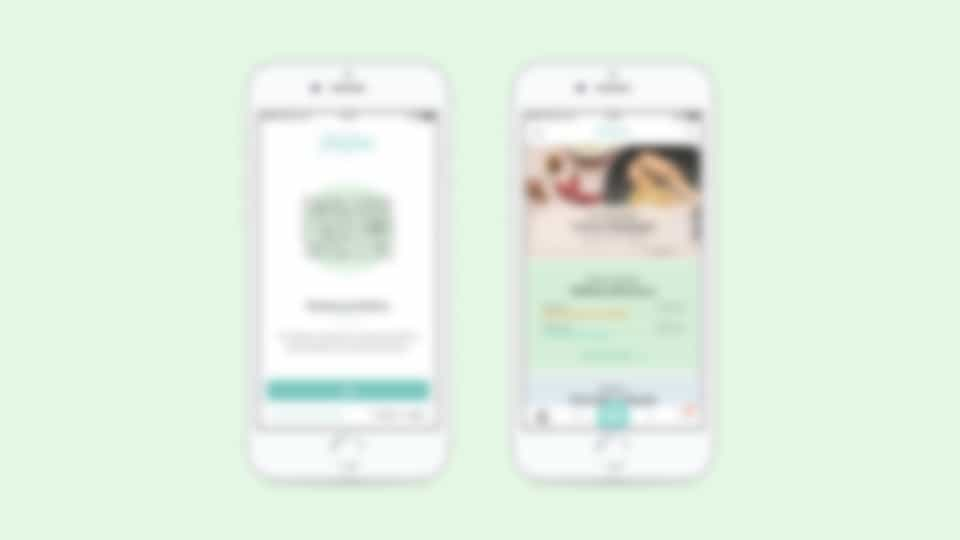
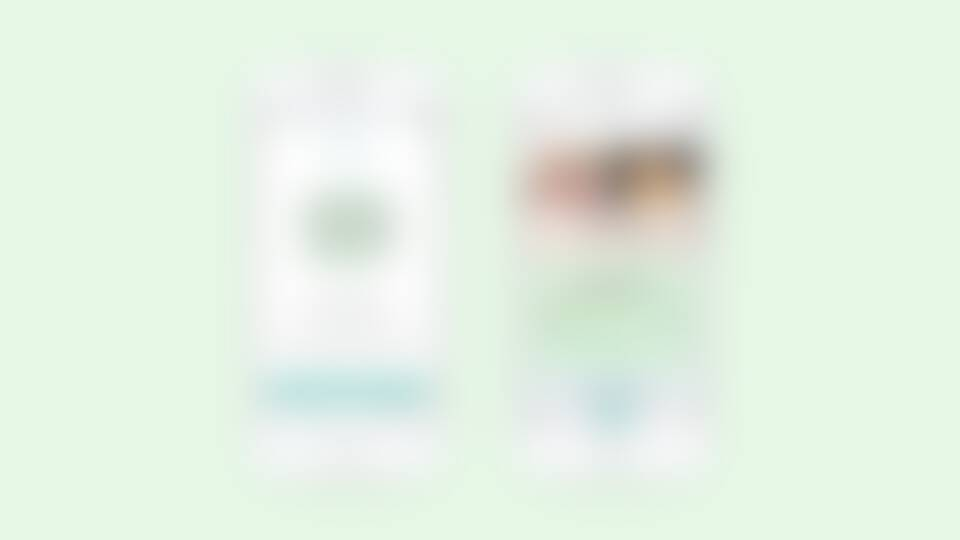
Add lazyload parameters

diff --git a/happysignals.html b/happysignals.html
@@ -71,7 +71,7 @@
                 <div class="container container-l">
                     <div class="row">
                         <div class="twelve columns">
-                            <img class="image" src="images/happysignals_main.jpg" alt="HappySignals">
+                            <img class="image" data-src="images/happysignals_main.jpg" src="images/blurred/happysignals_main.jpg" alt="HappySignals">
                         </div>
                     </div>
                 </div>
@@ -102,7 +102,7 @@
                 <div class="container container-l">
                     <div class="row">
                         <div class="twelve columns">
-                            <img class="image" src="images/hs_dashboard.jpg" alt="Dashboard">
+                            <img class="image" data-src="images/hs_dashboard.jpg" src="images/blurred/hs_dashboard.jpg" alt="Dashboard">
                         </div>
                     </div>
                 </div>
@@ -118,7 +118,7 @@
                 <div class="container container-l">
                     <div class="row">
                         <div class="twelve columns">
-                            <img class="image" src="images/hs_reports.jpg" alt="Reports">
+                            <img class="image" data-src="images/hs_reports.jpg" src="images/blurred/hs_reports.jpg" alt="Reports">
                         </div>
                     </div>
                 </div>
@@ -142,7 +142,7 @@
                 <div class="container container-l">
                     <div class="row">
                         <div class="twelve columns">
-                            <img class="image" src="images/hs_feedback.jpg" alt="Feedback">
+                            <img class="image" data-src="images/hs_feedback.jpg" src="images/blurred/hs_feedback.jpg" alt="Feedback">
                         </div>
                     </div>
                 </div>
@@ -167,7 +167,7 @@
                 <div class="container container-l">
                     <div class="row">
                         <div class="twelve columns">
-                            <img class="image" src="images/hs_mobile.jpg" alt="Mobile">
+                            <img class="image" data-src="images/hs_mobile.jpg" src="images/blurred/hs_mobile.jpg" alt="Mobile">
                         </div>
                     </div>
                 </div>
@@ -193,7 +193,7 @@
                 <div class="container container-l">
                     <div class="row">
                         <div class="twelve columns">
-                            <img class="image" src="images/hs_survey.jpg" alt="Survey">
+                            <img class="image" data-src="images/hs_survey.jpg" src="images/blurred/hs_survey.jpg" alt="Survey">
                         </div>
                     </div>
                 </div>
@@ -217,7 +217,7 @@
                 <div class="container container-l">
                     <div class="row">
                         <div class="twelve columns">
-                            <img class="image" src="images/hs_site.jpg" alt="Marketing site">
+                            <img class="image" data-src="images/hs_site.jpg" src="images/blurred/hs_site.jpg" alt="Marketing site">
                         </div>
                     </div>
                 </div>

diff --git a/index.html b/index.html
@@ -48,25 +48,25 @@
                             <h3>HSL</h3>
                             <p>Helsinki Regional Transport Authority</p>
                             <span class="view-more">View more</span>
-                            <img src="images/hsl_thumb.jpg" alt="HSL">
+                            <img data-src="images/hsl_thumb.jpg" src="images/blurred/hsl_thumb.jpg" alt="HSL">
                         </a>
                         <a class="work-panel work-panel-whim" href="/whim">
                             <h3>Whim</h3>
                             <p>Designing the world's first MaaS solution</p>
                             <span class="view-more">View more</span>
-                            <img src="images/whim_thumb.jpg" alt="Whim" loading="lazy">
+                            <img data-src="images/whim_thumb.jpg" src="images/blurred/whim_thumb.jpg" alt="Whim">
                         </a>
                         <a class="work-panel work-panel-happysignals" href="/happysignals">
                             <h3>HappySignals</h3>
                             <p>Designing an employee experience management tool</p>
                             <span class="view-more">View more</span>
-                            <img src="images/happysignals_thumb.jpg" alt="HappySignals" loading="lazy">
+                            <img data-src="images/happysignals_thumb.jpg" src="images/blurred/happysignals_thumb.jpg" alt="HappySignals">
                         </a>
-                        <a class="work-panel work-panel-viaesca" href="/viaesca" loading="lazy">
+                        <a class="work-panel work-panel-viaesca" href="/viaesca">
                             <h3>Via Esca</h3>
                             <p>Companion app for a wellbeing startup</p>
                             <span class="view-more">View more</span>
-                            <img src="images/viaesca_thumb.jpg" alt="Via Esca" loading="lazy">
+                            <img data-src="images/viaesca_thumb.jpg" src="images/blurred/viaesca_thumb.jpg" alt="Via Esca">
                         </a>
                     </div>
                 </div>

diff --git a/hsl.html b/hsl.html
@@ -47,7 +47,7 @@
                 <div class="container container-l">
                     <div class="row">
                         <div class="twelve columns">
-                            <img class="image" src="images/hsl_main.jpg" alt="HSL.fi website frontpage">
+                            <img class="image" data-src="images/hsl_main.jpg" src="images/blurred/hsl_main.jpg" alt="HSL.fi website frontpage">
                         </div>
                     </div>
                 </div>
@@ -105,7 +105,7 @@
                 <div class="container container-l">
                     <div class="row">
                         <div class="twelve columns">
-                            <img class="image" src="images/hsl_hslfi.jpg" alt="HSL.fi website">
+                            <img class="image" data-src="images/hsl_hslfi.jpg" src="images/blurred/hsl_hslfi.jpg" alt="HSL.fi website">
                         </div>
                     </div>
                 </div>
@@ -132,7 +132,7 @@
                 <div class="container container-l">
                     <div class="row">
                         <div class="twelve columns">
-                            <img class="image" src="images/hsl_ro.jpg" alt="Reittiopas">
+                            <img class="image" data-src="images/hsl_ro.jpg" src="images/blurred/hsl_ro.jpg" alt="Reittiopas">
                         </div>
                     </div>
                 </div>
@@ -157,7 +157,7 @@
                 <div class="container container-l">
                     <div class="row">
                         <div class="twelve columns">
-                            <img class="image various-2" src="images/hsl_kp.jpg" alt="HSL City bikes">
+                            <img class="image various-2" data-src="images/hsl_kp.jpg" src="images/blurred/hsl_kp.jpg" alt="HSL City bikes">
                         </div>
                     </div>
                 </div>

diff --git a/whim.html b/whim.html
@@ -104,30 +104,6 @@
                         </div>
                     </div>
                 </div>
-                <!-- <div class="container">
-                    <div class="row">
-                        <div class="twelve columns">
-                            <h3>Tickets</h3>
-                        </div>
-                    </div>
-                </div>
-                <div class="container container-l">
-                    <div class="row">
-                        <div class="twelve columns">
-                            <img class="image" src="images/whim_tickets.jpg" alt="Tickets">
-                        </div>
-                    </div>
-                </div>
-                <div class="container">
-                    <div class="row">
-                        <div class="twelve columns">
-                            <p>We designed generic mobile tickets to be used by various service providers in different countries.</p>
-                            <p>By using an animated background, 2-digit verification code and QR code in the inspection view, we made mobile tickets secure and hard to replicate.</p>
-                            <p><a class="view-prototype" href="#modal-1" rel="modal:open"><svg xmlns="http://www.w3.org/2000/svg" width="20" height="20" viewBox="0 0 20 20"><path fill="#2f89fc" fill-rule="nonzero" d="M8 14.5l6-4.5-6-4.5v9zM10 0C4.48 0 0 4.48 0 10s4.48 10 10 10 10-4.48 10-10S15.52 0 10 0zm0 18c-4.41 0-8-3.59-8-8s3.59-8 8-8 8 3.59 8 8-3.59 8-8 8z"/></svg>View prototype video</a></p>
-                            <hr>
-                        </div>
-                    </div>
-                </div> -->
                 <div class="container">
                     <div class="row">
                         <div class="twelve columns">

diff --git a/viaesca.html b/viaesca.html
@@ -47,7 +47,7 @@
             <div class="container container-l">
                 <div class="row">
                     <div class="twelve columns">
-                        <img class="image" src="images/viaesca_main.jpg" alt="Via Esca">
+                        <img class="image" data-src="images/viaesca_main.jpg" src="images/blurred/viaesca_main.jpg" alt="Via Esca">
                     </div>
                 </div>
             </div>
@@ -78,7 +78,7 @@
             <div class="container container-l">
                 <div class="row">
                     <div class="twelve columns">
-                        <img class="image" src="images/viaesca_1.jpg" alt="Onboarding">
+                        <img class="image" data-src="images/viaesca_1.jpg" src="images/blurred/viaesca_1.jpg" alt="Onboarding">
                     </div>
                 </div>
             </div>
@@ -93,7 +93,7 @@
             <div class="container container-l">
                 <div class="row">
                     <div class="twelve columns">
-                        <img class="image" src="images/viaesca_2.jpg" alt="Recipes">
+                        <img class="image" data-src="images/viaesca_2.jpg" src="images/blurred/viaesca_2.jpg" alt="Recipes">
                     </div>
                 </div>
             </div>
@@ -108,7 +108,7 @@
             <div class="container container-l">
                 <div class="row">
                     <div class="twelve columns">
-                        <img class="image" src="images/viaesca_3.jpg" alt="Statistics">
+                        <img class="image" data-src="images/viaesca_3.jpg" src="images/blurred/viaesca_3.jpg" alt="Statistics">
                     </div>
                 </div>
             </div>

diff --git a/about.html b/about.html
@@ -36,7 +36,7 @@
                 <div class="container">
                     <div class="row">
                         <div class="twelve columns">
-                            <img class="image" src="images/about-2.jpg">
+                            <img class="image" data-src="images/about-2.jpg" src="images/blurred/about-2.jpg">
                             <h2>About me</h2>
                             <p class="lead">Hello! I'm Aleksi Tappura, a designer focused on digital product design and visual design. I'm always looking for new and exciting opportunities, so don't hesitate to get in touch via <a href="mailto:hello@aleksitappura.com">email</a>. At this time, I'm particularly interested in all things related to mobility.</p>
                             <p class="lead">You can follow me on <a href="https://twitter.com/aleksitappura" target="_blank">Twitter</a>, <a href="https://dribbble.com/aleksitappura" target="_blank">Dribbble</a>, <a href="https://www.linkedin.com/in/aleksitappura" target="_blank">LinkedIn</a>, or reach out via email - <a href="mailto:hello@aleksitappura.com">hello@aleksitappura.com</a>.</p>
